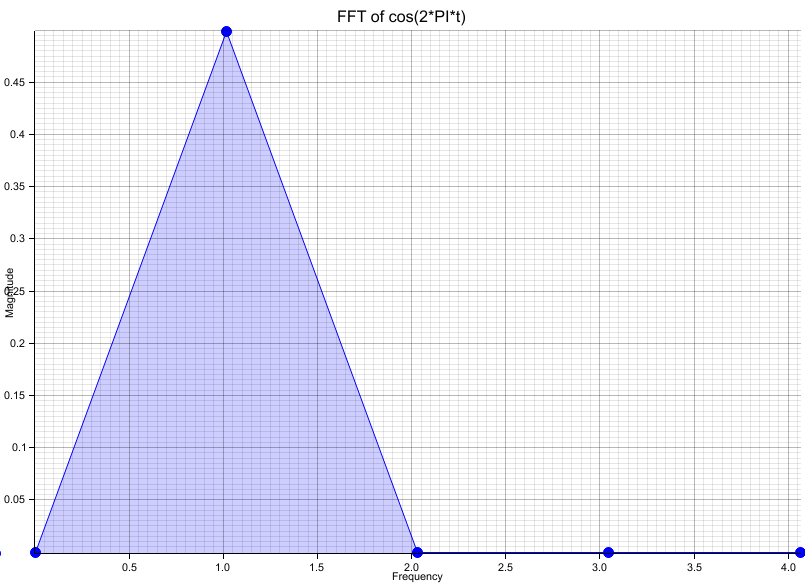
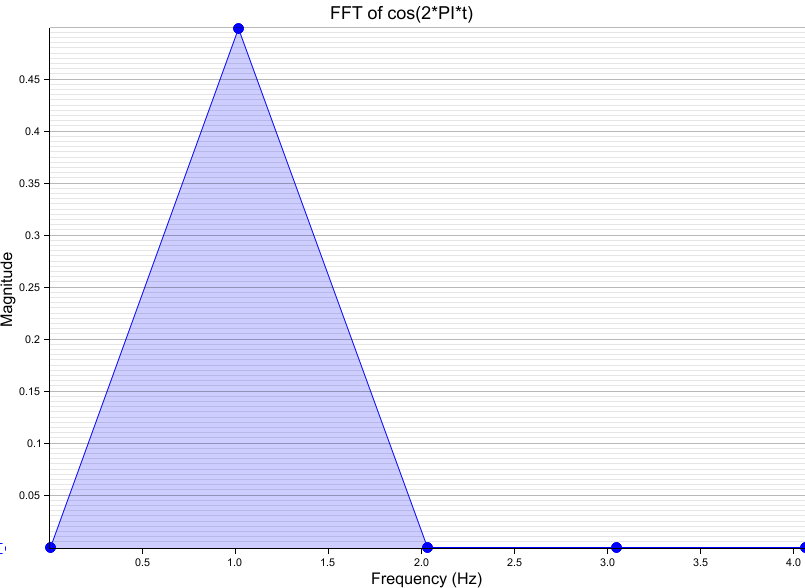
Formatted plot. Experimenting in README.

diff --git a/src/fft.rs b/src/fft.rs
@@ -139,10 +139,9 @@ pub fn plot(freq: Vec<f64>, mag: Vec<f64>, title: &str, filename: &str) -> Resul
 
     // Define chart builder axes
     let mut chart = ChartBuilder::on(&root)
-        .caption(title, ("sans-serif", 18).into_font())
-        .margin(5)
-        .x_label_area_size(30)
-        .y_label_area_size(30)
+        .caption(title, ("sans-serif", 20).into_font())
+        .x_label_area_size(40)
+        .y_label_area_size(50)
         .build_cartesian_2d(x_0..x_n, y_0..y_n)?;
 
     // Line
@@ -163,9 +162,10 @@ pub fn plot(freq: Vec<f64>, mag: Vec<f64>, title: &str, filename: &str) -> Resul
     chart
         .configure_mesh()
         .y_desc("Magnitude")
-        .x_desc("Frequency")
+        .x_desc("Frequency (Hz)")
+        .disable_x_mesh()
+        .axis_desc_style(("sans-serif", 18))
         .draw()?;
-    // Add .disable_x_mesh() to disable mesh in X-axis (vice versa for Y)
 
     Ok(())
 }

diff --git a/README.md b/README.md
@@ -13,10 +13,15 @@ Future:
 - Data fitting
 - ODE
 
-To use, simply enter:
+To use, first confirm all unit tests run:
+```
+cargo test
+```
+Then run the main function to also create images and provide console logs:
 ```
 cargo run
 ```
+Output images can be found within the img/ directory. Note that "reference_" images were captured from Excel, not produced through Rust.
 
 # Components
 ## Fast Fourier Transform (FFT)
@@ -40,29 +45,11 @@ For the sine function, the angular frequency is 4 * PI, so the frequency = 2 (i.
 ### Magnitude of Complex Signal
 Magnitude = sqrt( real^2 + imag^2 )
 
-### Result images
+# Result images
 Below are examples of images associated to unit test functions. Reference images are from a project I did in 2013 in Fortran with plotting in Excel.
 
 | Function    | Fortran/Excel (reference)                                       | Rust                                                |
 |-------------|-----------------------------------------------------------------|-----------------------------------------------------|
-| Step        | <img src="./img/reference_step.png" width="400" height="300">   | <img src="./img/step.png" width="400" height="300"> |
-| Cos(2*PI*t) | <img src="./img/reference_cos2pi.png" width="400" height="300"> | <img src="./img/cos2pi.png" width="400" height="300"> |
+| Step        | <img src="./img/reference_step.png" width="300" height="180">   | <img src="./img/step.png" width="300" height="180"> |
+| Cos(2*PI*t) | <img src="./img/reference_cos2pi.png"> | <img src="./img/cos2pi.png"> |
 | Sin(4*PI*t) | <img src="./img/reference_sin4pi.png" width="400" height="300"> | <img src="./img/sin4pi.png" width="400" height="300"> |
-
-
-#### Step Function
-![Step Function](./img/reference_step.png)
-Rust
-![Step Function](./img/step.png)
-
-#### Cos(2 * PI * t)
-Fortran/Excel (reference)
-![Cos(2 * PI * t)](./img/reference_cos2pi.png)
-Rust
-![Cos(2 * PI * t)](./img/cos2pi.png)
-
-#### Sin(4 * PI * t)
-Fortran/Excel (reference)
-![Sin(4 * PI * t)](./img/reference_sin4pi.png)
-Rust
-![Sin(4 * PI * t)](./img/sin4pi.png)
